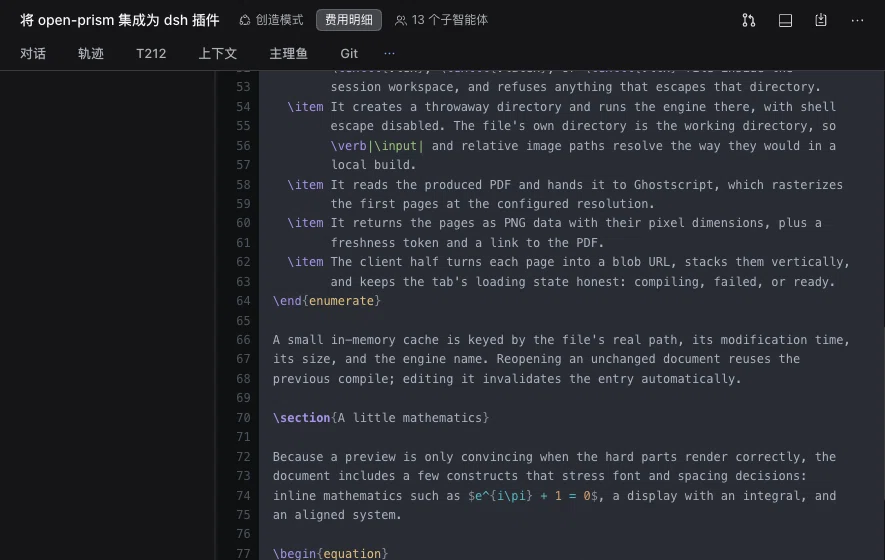
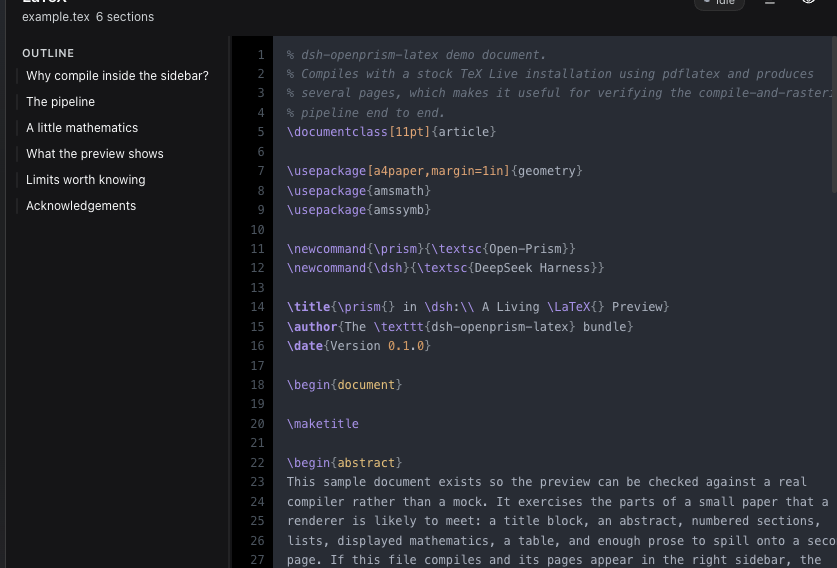
docs: replace the screenshots with captures of the shipped UI

Changed region(s): [[0.0, 0.0, 1.0, 1.0]]

diff --git a/README.md b/README.md
@@ -13,8 +13,8 @@ implementation, not a fork; see [Credits and provenance](#credits-and-provenance
 
 ![The LaTeX view: outline rail, source editor, rendered page](docs/view.png)
 
-<sub>Screenshots from 0.1.0 on macOS (dark theme). The header, outline highlight and status pill
-have since been refined; replace these images after the next capture.</sub>
+<sub>Captured from the running app on macOS (dark theme): the Conversation view with its outline
+rail, status pill and black editor; the right sidebar page stack.</sub>
 
 ---
 
@@ -181,7 +181,7 @@ MIT — see [`LICENSE`](LICENSE). Third-party notices: [`THIRD_PARTY_NOTICES.md`
 
 ![LaTeX 视图：左侧 Outline、中间源码编辑器、右侧渲染页](docs/view.png)
 
-<sub>截图取自 0.1.0，macOS 深色主题。头部、Outline 高亮与状态胶囊之后又做了细化，下次截图时替换。</sub>
+<sub>取自实机运行（macOS 深色主题）：会话视图的 Outline 轨道、状态胶囊与纯黑编辑器；右侧边栏的页面栈。</sub>
 
 ### 这是什么
 
